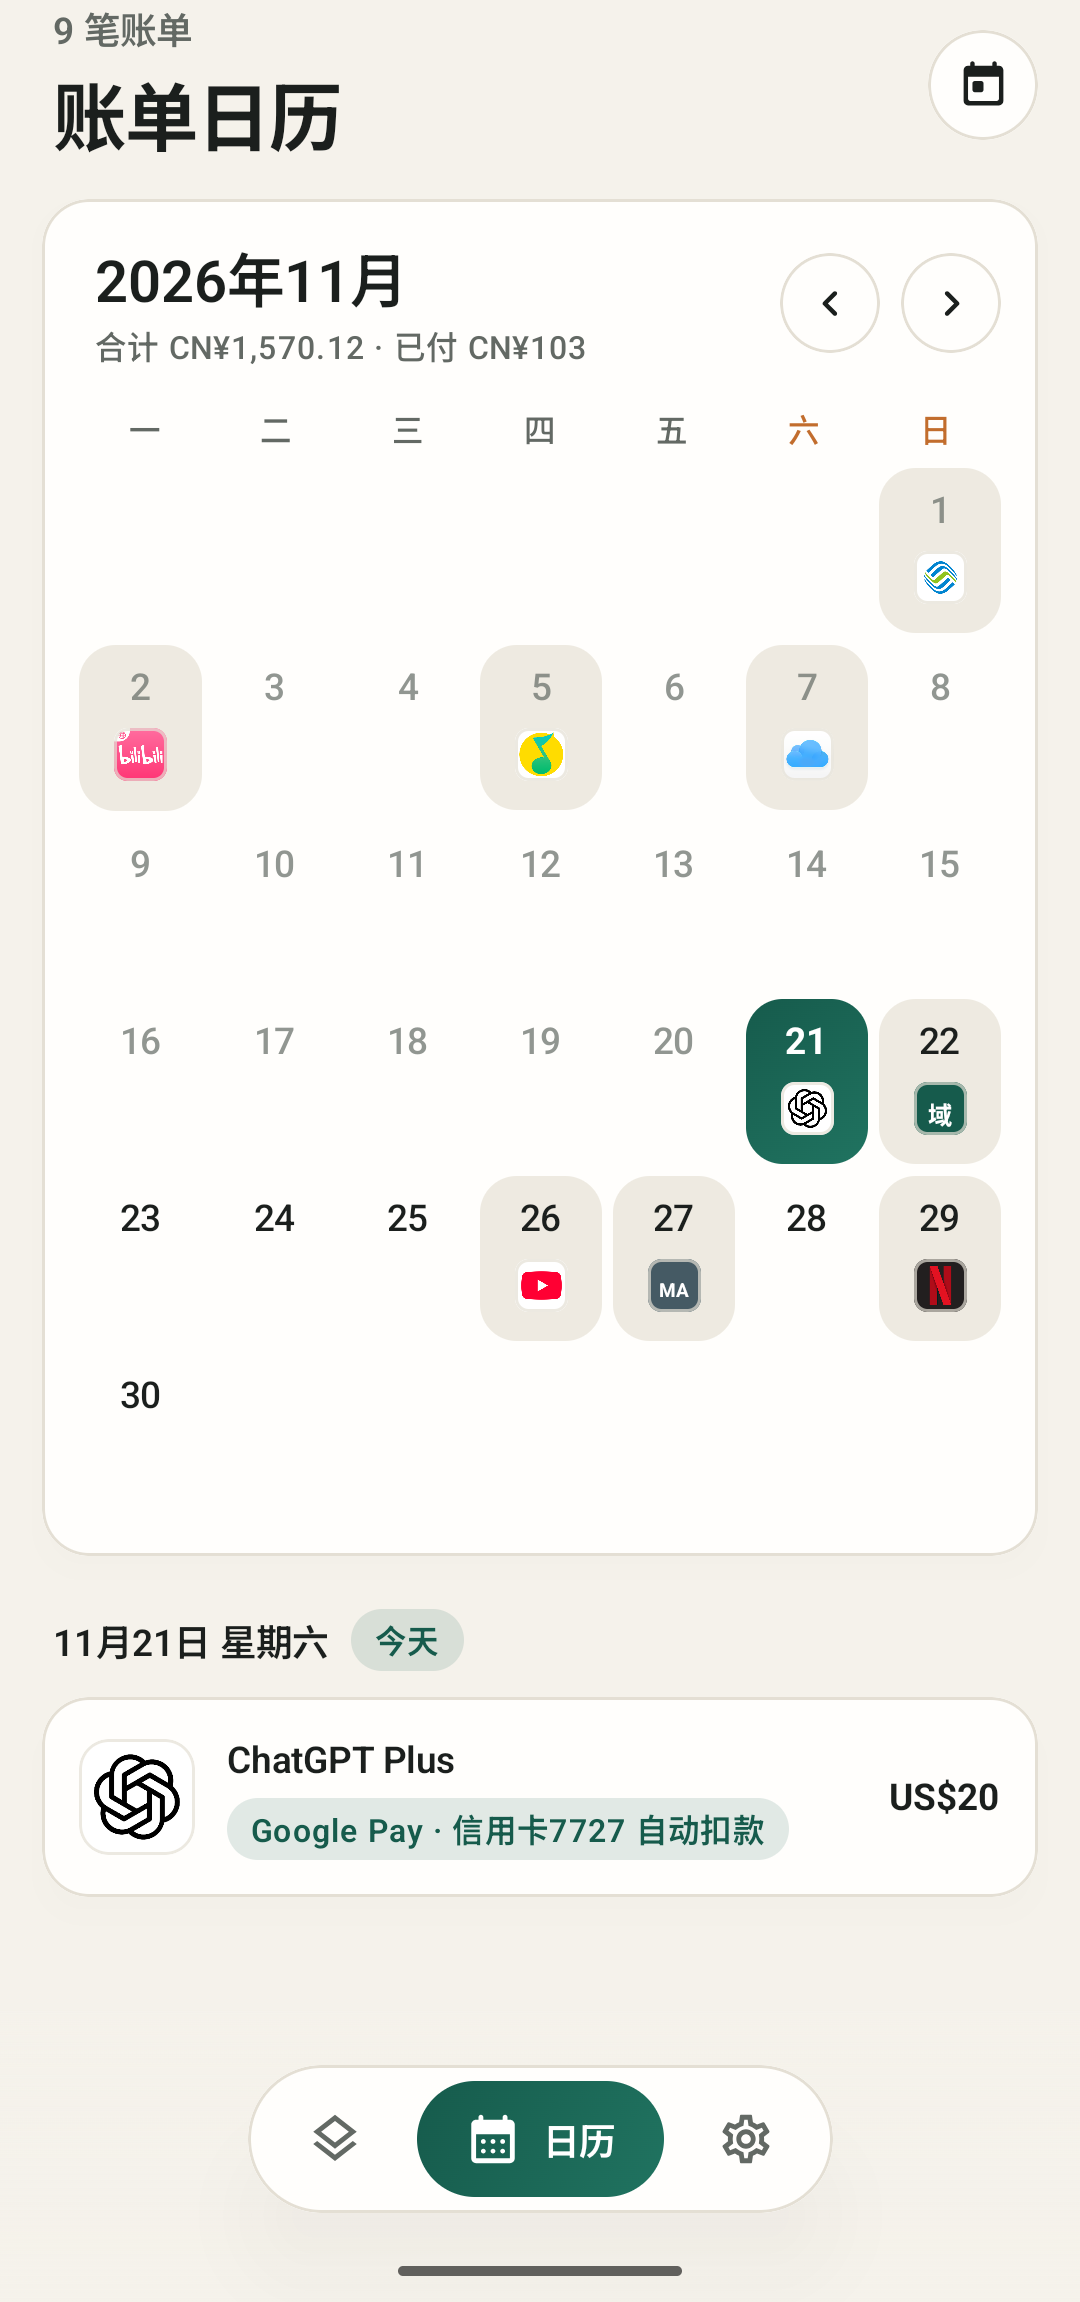
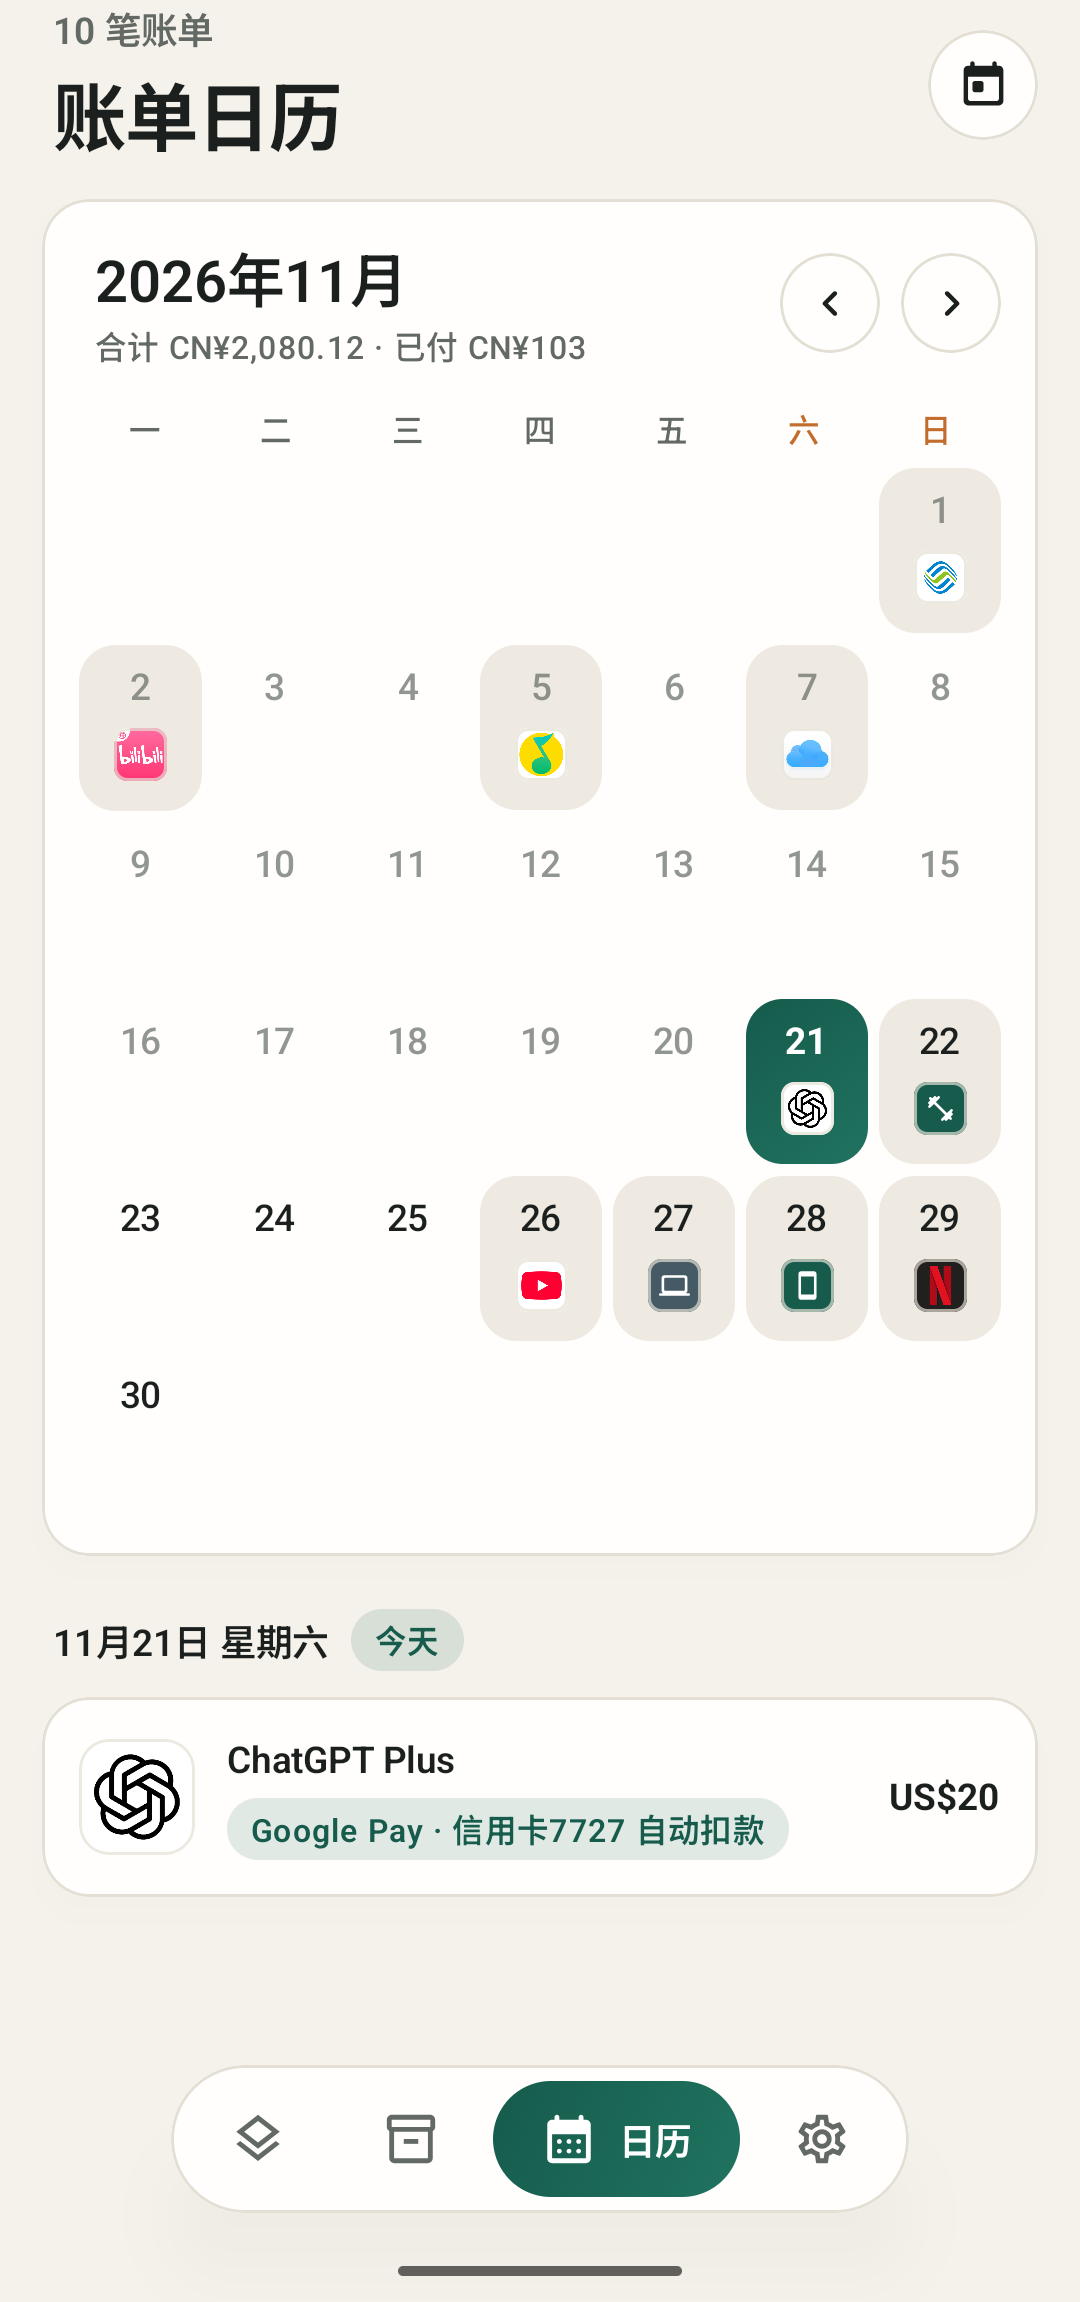
docs: refresh README and 6 v1.5.0 showcase screenshots without domain example

diff --git a/README.md b/README.md
@@ -4,93 +4,92 @@
 >
 > `Required Notice: Copyright (c) 2026 capllen (https://github.com/capllen/Subnook)`
 
-Subnook 是一个简洁的 Android 订阅和分期管理 App：记录各种会员 / 订阅 / 非周期到期项 / 定期账单和分期付款，自动滚动扣款日期，到期前提醒，并按周 / 月 / 年统计花费。数据保存在本机，也可以备份到你自己的 WebDAV。
+Subnook 是一个简洁的 Android **个人订阅、分期与实物保修管理 App**：在一个本地优先的账本里统一管理周期会员、非周期/买断软件、分期还款，以及手机/家电等实物资产与保修期。数据默认全部保存在本机，支持 JSON 备份、本地回退快照与自有 WebDAV 云端同步。
 
-### 个人定制改动
-- **非周期订阅与提醒优先**：新增「非周期订阅」类型（选到期时间与扣款方式，金额可选，到期确认后自动归档）；到期提醒在首页待付款区、小组件及系统通知栏均优先排在周期订阅之前。
-- **中文习惯日期选择器**：自研纯中文日历弹窗（周一起始、左右滑切月、点击年月网格快选、内置「今天 / 1个月后 / 3个月后 / 半年后 / 1年后」快捷定位）。
-- **支付平台 + 全局复用扣款渠道池**：一级选支付平台（Google Pay、微信、支付宝等），二级选实际扣款账户（如 `信用卡7727`、`借记卡2990`、`微信零钱`），跨平台复用，统计页支持按扣款渠道汇总每月扣款总额。
-- **设置内可视化管理**：支持在设置中新增、编辑及开关启停「扣款方式」「实际扣款渠道」和「内置 / 自定义订阅源」。
-- **暖纸墨绿 · 极简账本风 UI**：整体重做浅色（宣纸米白 + 深松石墨绿 + 暖琥珀）与深色（深松烟夜色 + 玉石青绿）视觉体系、卡片描边与桌面小组件配色。
+## 界面预览
 
-<p>
-  <img src="docs/screenshots/home.png" width="200" alt="暖纸墨绿首页：月均支出与非周期优先的待付款区">
-  <img src="docs/screenshots/list.png" width="200" alt="多币种订阅列表、扣款渠道与分期还款">
-  <img src="docs/screenshots/calendar.png" width="200" alt="账单日历与当天扣款明细">
+<p align="center">
+  <img src="docs/screenshots/home.png" width="220" alt="首页总览：暖纸墨绿卡片、非周期优先的待付款区与四栏导航">
+  <img src="docs/screenshots/assets.png" width="220" alt="我的物品：实物总价值、日均成本与即将过保提醒">
+  <img src="docs/screenshots/asset-edit.png" width="220" alt="物品编辑：线上订单截图本地离线 OCR 智能识别与购买渠道">
 </p>
 
-<p>
-  <img src="docs/screenshots/stats.png" width="200" alt="支出统计与分类占比环形图">
-  <img src="docs/screenshots/stats-channel.png" width="200" alt="按实际扣款渠道跨平台汇总统计">
-  <img src="docs/screenshots/edit.png" width="200" alt="非周期订阅编辑与支付平台/扣款渠道双层选择">
+<p align="center">
+  <img src="docs/screenshots/calendar.png" width="220" alt="账单与保修日历：订阅扣款日与实物保修到期日同屏展示">
+  <img src="docs/screenshots/stats.png" width="220" alt="支出统计：分类占比环形图与未来 12 个月待付预测">
+  <img src="docs/screenshots/edit-note.png" width="220" alt="扣款渠道与可扩展备注：账号ID、激活码、硬件码一键复制">
 </p>
 
-<p>
-  <img src="docs/screenshots/date-picker.png" width="200" alt="中文习惯日期选择框（周一起始与快捷定位）">
-  <img src="docs/screenshots/manage-pay.png" width="200" alt="设置内扣款方式与实际扣款渠道启停管理">
-  <img src="docs/screenshots/manage-presets.png" width="200" alt="设置内订阅源管理（自定义新增与分类启停）">
-</p>
+> 示意图依次展示：**首页待付款与月均总览** → **实物资产与保修追踪** → **订单截图离线 OCR 识别** → **账单与保修日历** → **多维度支出统计** → **实际扣款渠道与可扩展备注**。
 
-<p>
-  <img src="docs/screenshots/balance.png" width="200" alt="余额可付期数、下次充值日期与充值记录">
-  <img src="docs/screenshots/installment-plan.png" width="200" alt="分期还款计划与每期本金、手续费明细">
-</p>
+## 个人定制亮点
 
-## 功能
+- **实物资产与保修管理（「物品」独立 Tab）**：
+  - 独立数据库表存放手机、电脑、空调等大件物品档案，**不污染每月订阅支出统计**；自动计算持有天数、实际净支出（支持标记闲置、已出二手回血与报废）与日均使用成本。
+  - 支持整机保修快捷推算（6 个月 / 1 年 / 2 年 / 3 年 / 6 年 / 10 年 / 自定义）及附加核心部件延保（如空调压缩机 10 年、AppleCare+），按关键节点提醒（默认提前 30 天 / 7 天 / 当天），并同步呈现在账单日历中。
+  - 内置序列号 SN / 订单号一键复制，支持附加最多 3 张发票 / 保修卡 / 实物凭证照片（自动压缩存档并随备份同步），还可一键为物品创建周期保养 / 耗材提醒。
+- **线上订单截图离线智能识别（OCR）**：
+  - 基于本机内置 ML Kit 中文识别模型，**全程纯本地离线解析，不联网、不上传隐私截图**（国内无 GMS 机型可直接使用）。
+  - 支持京东、淘宝 / 天猫、拼多多、Apple Store、官方商城、抖音商城、闲鱼及电子发票截图，自动提取 **订单号**（多单号可点选切换）、**购买渠道**、**实付金额**、**下单日期**（回填后自动联动重算保修到期日）及 **SN / IMEI**，并可勾选同步存为凭证照片。
+- **非周期订阅与「无结束时间（买断制）」**：
+  - 新增「非周期订阅」类型（选到期时间与扣款方式，金额可选，到期确认后自动归档）；到期提醒在首页待付款区、小组件及系统通知栏均**优先排在周期订阅之前**。
+  - 支持开启 **「无结束时间（买断制）」** 开关，用于记录一次性买断软件或永久会员，标注「永久有效 / 买断」，不触发到期倒计时、待付款与提醒。
+- **可扩展备注与一键复制胶囊**：
+  - 订阅与物品编辑页备注框支持一键在紧凑（3–8 行）与大框（8–20 行）间切换，提供常用字段快捷插入（`账号ID` / `硬件码` / `激活码` / `邮箱` / `型号规格` / `维修记录`）。
+  - 自动识别备注里的 `键：值` 行，生成单行一键复制胶囊，方便随时提取账号 ID、硬件码或激活码。
+- **双层扣款渠道 + 中文习惯日期选择器**：
+  - 一级选支付平台（Google Pay、微信、支付宝等），二级选全局复用的实际扣款账户（如 `信用卡7727`、`借记卡2990`、`微信零钱`），统计页支持跨平台按实际扣款渠道汇总；设置页支持可视化增删与启停扣款方式、扣款渠道及订阅源。
+  - 自研纯中文、周一起始的日历选择弹窗，内置年月网格快选与快捷日期定位。
+- **暖纸墨绿 · 极简账本风 UI**：
+  - 重构浅色（宣纸米白 `#F5F2EB` + 深松石墨绿 `#165B4C` + 琥珀赤陶 `#C26D2D`）与深色（松烟夜 `#101412` + 玉石青绿 `#6BC4AD`）配色体系、卡片细节与桌面小组件。
+- **本地回退快照与安全发版**：
+  - 导入备份、云端恢复及版本升级前自动留存本地回退快照（保留近 8 份，支持秒级回退）；关于页支持查看 GitHub Releases 历史版本。
 
-- **订阅记录**：名称、图标、金额、币种、周期（每 N 天 / 周 / 月 / 年）、下次付款日期、付款方式（Google Play、App Store、微信、支付宝、信用卡、PayPal、银行卡、余额等）、分类、备注；付款方式和分类选「其他」时可以自己命名，并加入预设
-- **自动 / 手动续费**：自动续费的订阅过了账单日自动记账并滚动到下一期；关掉自动续费就是手动付款，需点「我已付款」才更新。3 天内到期的都会进入「待付款」，可以提前确认（应对 Google 等提前扣款）
-- **分期付款**：填写本金、期数、计息方式（免息 / 每期手续费 / 首期收手续费 / 等额本息 / 等额本金）、费率和当前期数，自动算出每期金额和还款计划；支持花呗、京东白条、微信分付、信用卡等付款方式；可以提前还款（一次还清 / 减少每期还款 / 缩短期数），删除记录即可撤销
-- **余额付款**：记录预付余额，自动预测还能付几期、哪天前要充值，扣款时从余额扣除，余额不足会提醒
-- **提醒**：默认账单日前 3 天开始每天提醒一次（提前天数 0–30 天可调），手动付款逾期每天提醒，通知上可直接点「已付款」
-- **排序**：按下次付款日期、月均金额、名称、分类、添加时间排序，可选正序 / 倒序；也可以长按卡片拖动手动排序
-- **统计**：首页按周 / 月 / 年显示平均支出（订阅和分期合计）；详细统计页有分类环形图、花费排行、未来 12 个月待付、订阅 / 分期占比、按付款方式 / 币种分布、已付款记录
-- **多币种**：31 种常用货币，显示币种可切换，汇率每 24 小时自动更新（[open.er-api.com](https://open.er-api.com)）
-- **账单日历**：每天显示当天扣款的订阅图标，过去显示实际付款记录
-- **250+ 预设**：国内外常用软件、游戏、云服务、VPN、通信运营商等，自带图标和参考价格；也可以从相册选图（可裁剪）或用内置设计图标
-- **备份**：导出 / 导入 JSON（含付款记录、充值记录、自定义图标和设置）；也可以备份到 WebDAV（坚果云、Nextcloud、群晖等），支持每天自动备份。只有设置了 WebDAV 才会联网上传，账号密码只保存在本机
-- **桌面小组件**：不用打开 App 就能看到每月支出和即将扣款的订阅 / 分期，列表可上下滑动
-<p>
-  <img src="docs/screenshots/widget.png" width="300" alt="桌面小组件（4×2）">
-  <img src="docs/screenshots/widget-large.png" width="234" alt="桌面小组件（4×4，列表可滑动）">
-</p>
+## 基础核心能力
 
-## 下载
+- **订阅与续费管理**：支持自定义周期（每 N 天 / 周 / 月 / 年）、自动 / 手动续费、3 天内提前确认付款、提前 0–30 天到期提醒、多维排序与长按拖拽排序。
+- **分期付款与提前还款**：支持免息、每期手续费、首期收手续费、等额本息、等额本金 5 种计息方式，自动生成分期计划并支持部分 / 一次性提前还款及撤销。
+- **预付余额扣款**：适用于话费、点券、平台余额等，自动预测剩余可付期数与下次充值日。
+- **多币种与统计**：内置 31 种货币与 24 小时自动汇率更新（[open.er-api.com](https://open.er-api.com)）；详细统计页包含分类环形图、花费排行、未来 12 个月待付预测、扣款渠道 / 币种占比与历史付款记录。
+- **260+ 预设与桌面小组件**：覆盖国内外常用会员、云服务、游戏与运营商预设，支持相册裁剪图标与可滑动的 4×2 / 4×4 桌面小组件。
+- **本地优先备份**：支持 JSON 导入导出与 WebDAV（坚果云、Nextcloud、群晖等）自动备份，不接入任何第三方账号或统计 SDK。
 
-到 [Releases](../../releases) 下载 APK（Android 8.0 及以上）。
+## 下载安装
 
-## 编译
+前往 [Releases](../../releases) 下载最新正式签名的 `Subnook-vX.Y.Z.apk`（Android 8.0 及以上）。
 
-技术栈：Kotlin、Jetpack Compose（Material 3）、Room、DataStore、WorkManager、Glance、OkHttp（WebDAV）。需要 JDK 17+ 和 Android SDK（compileSdk 36）。
+> **提示**：由于内置了本机离线中文 OCR 模型（无需联网下载模型），Release APK 体积约 50 MB，安装后可完全离线识别订单截图。
 
-**用 Android Studio**：直接打开 `Subnook/` 目录。
+## 开发、构建与发布
 
-**命令行**：
+技术栈：Kotlin、Jetpack Compose（Material 3）、Room（含 Schema 导出）、DataStore、WorkManager、Glance、OkHttp（WebDAV）、ML Kit Chinese Text Recognition（离线 OCR）。需要 **JDK 21** 与 Android SDK（`compileSdk 36`）。
+
+**Android Studio**：直接打开 `Subnook/` 目录即可编译。
+
+**命令行 / Windows 工程脚本**（自动处理中文路径下的单测兼容与环境配置）：
+
+```powershell
+.\scripts\dev.ps1             # 运行全量单元测试 + 编译 Debug APK + 热装到已连接设备
+.\scripts\release.ps1 -Tag    # 校验版本号/CHANGELOG/正式签名 + 单测 + 编 Release APK + apksigner 防呆验签 + 打 Tag
+.\scripts\rollback.ps1 -List  # 查看历史标签并安全回退（创建回退分支或 revert 提交）
+```
+
+或直接使用 Gradle（macOS / Linux / Git Bash）：
 
 ```bash
 cd Subnook
-./gradlew assembleDebug      # 输出 app/build/outputs/apk/debug/
-./gradlew testDebugUnitTest  # 单元测试
+./gradlew testDebugUnitTest   # JVM 单元测试
+./gradlew assembleDebug       # 输出 app/build/outputs/apk/debug/
 ```
 
-**Release 签名**：把 `Subnook/keystore.properties.example` 复制为 `keystore.properties` 并填入自己的签名信息；没有这个文件时 release 包使用 debug 签名。
-
-**Windows 便携工具链（可选）**：`scripts/env.ps1` / `scripts/env.sh` 会把 JDK、SDK、Gradle 及其缓存、临时文件都指向仓库内的 `toolchain/` 目录（不在 git 里，需要自己放入 `jdk21/`、`sdk/`、`gradle-8.14.3/`），`scripts/build.ps1`、`scripts/install.ps1` 用来编译和通过 adb 安装。
-
-## 预设与图标
-
-- 预设列表在 `Subnook/tools/presets.psv`（名称、分类、品牌色、参考价、币种、周期、默认付款方式、图标来源）
-- 修改后在 `Subnook/` 下运行（Git Bash / Linux / macOS）：
-  - `bash tools/fetch_icons.sh`：下载新增预设的图标（来源顺序：Google Play → App Store → 网站 favicon），`--force` 全部重新下载
-  - `bash tools/gen_presets.sh`：重新生成 `PresetCatalog.kt`
-  - `java tools/IconSheet.java sheet.png [key...]`：把图标拼成一张总览图，方便核对
-
-欢迎通过 PR 补充预设。
+**自动化 CI 与发版**：
+- 推送 `main` 分支自动触发 [ci.yml](.github/workflows/ci.yml) 执行单元测试与 Debug 构建。
+- 配置仓库 Actions Secrets（`KEYSTORE_BASE64`、`KEYSTORE_PASSWORD`、`KEY_ALIAS`、`KEY_PASSWORD`）后，执行 `git push origin main --follow-tags` 推送 `v*` 标签即可由 [release.yml](.github/workflows/release.yml) 自动完成单测、正式签名编译、防 Debug 签名验签与 GitHub Release 发布。
 
 ## 小提示
 
-- 一些国产系统（如 ColorOS）后台管控较严，建议在 App 设置里开启「准时提醒」和「忽略电池优化」，并在系统设置中允许自启动。
-- ColorOS 不支持 App 内一键添加小组件：请长按桌面空白处 → 卡片 → 插件 → Subnook。
+- 一些国产系统（如 ColorOS、HyperOS）后台管控较严，建议在 App 设置中开启「准时提醒」和「忽略电池优化」，并在系统设置中允许自启动。
+- 若系统不支持 App 内一键添加小组件，请长按桌面空白处 → 插件 / 卡片 → Subnook。
 
 ## 声明
 
@@ -98,4 +97,4 @@ cd Subnook
 
 ## 许可证
 
-[PolyForm Noncommercial 1.0.0](LICENSE)：可以免费用于个人、学习、研究等**非商业用途**，也可以 fork、修改和分发（需保留许可证和版权声明），但**禁止任何商业用途**。如需商用，请先通过 issue 联系作者。
+[PolyForm Noncommercial 1.0.0](LICENSE)：可以免费用于个人、学习、研究等**非商业用途**，也可以 fork、修改和分发（需保留许可证和版权声明），但**禁止任何商业用途**。如需商用，请先通过 issue 联系原项目作者。
